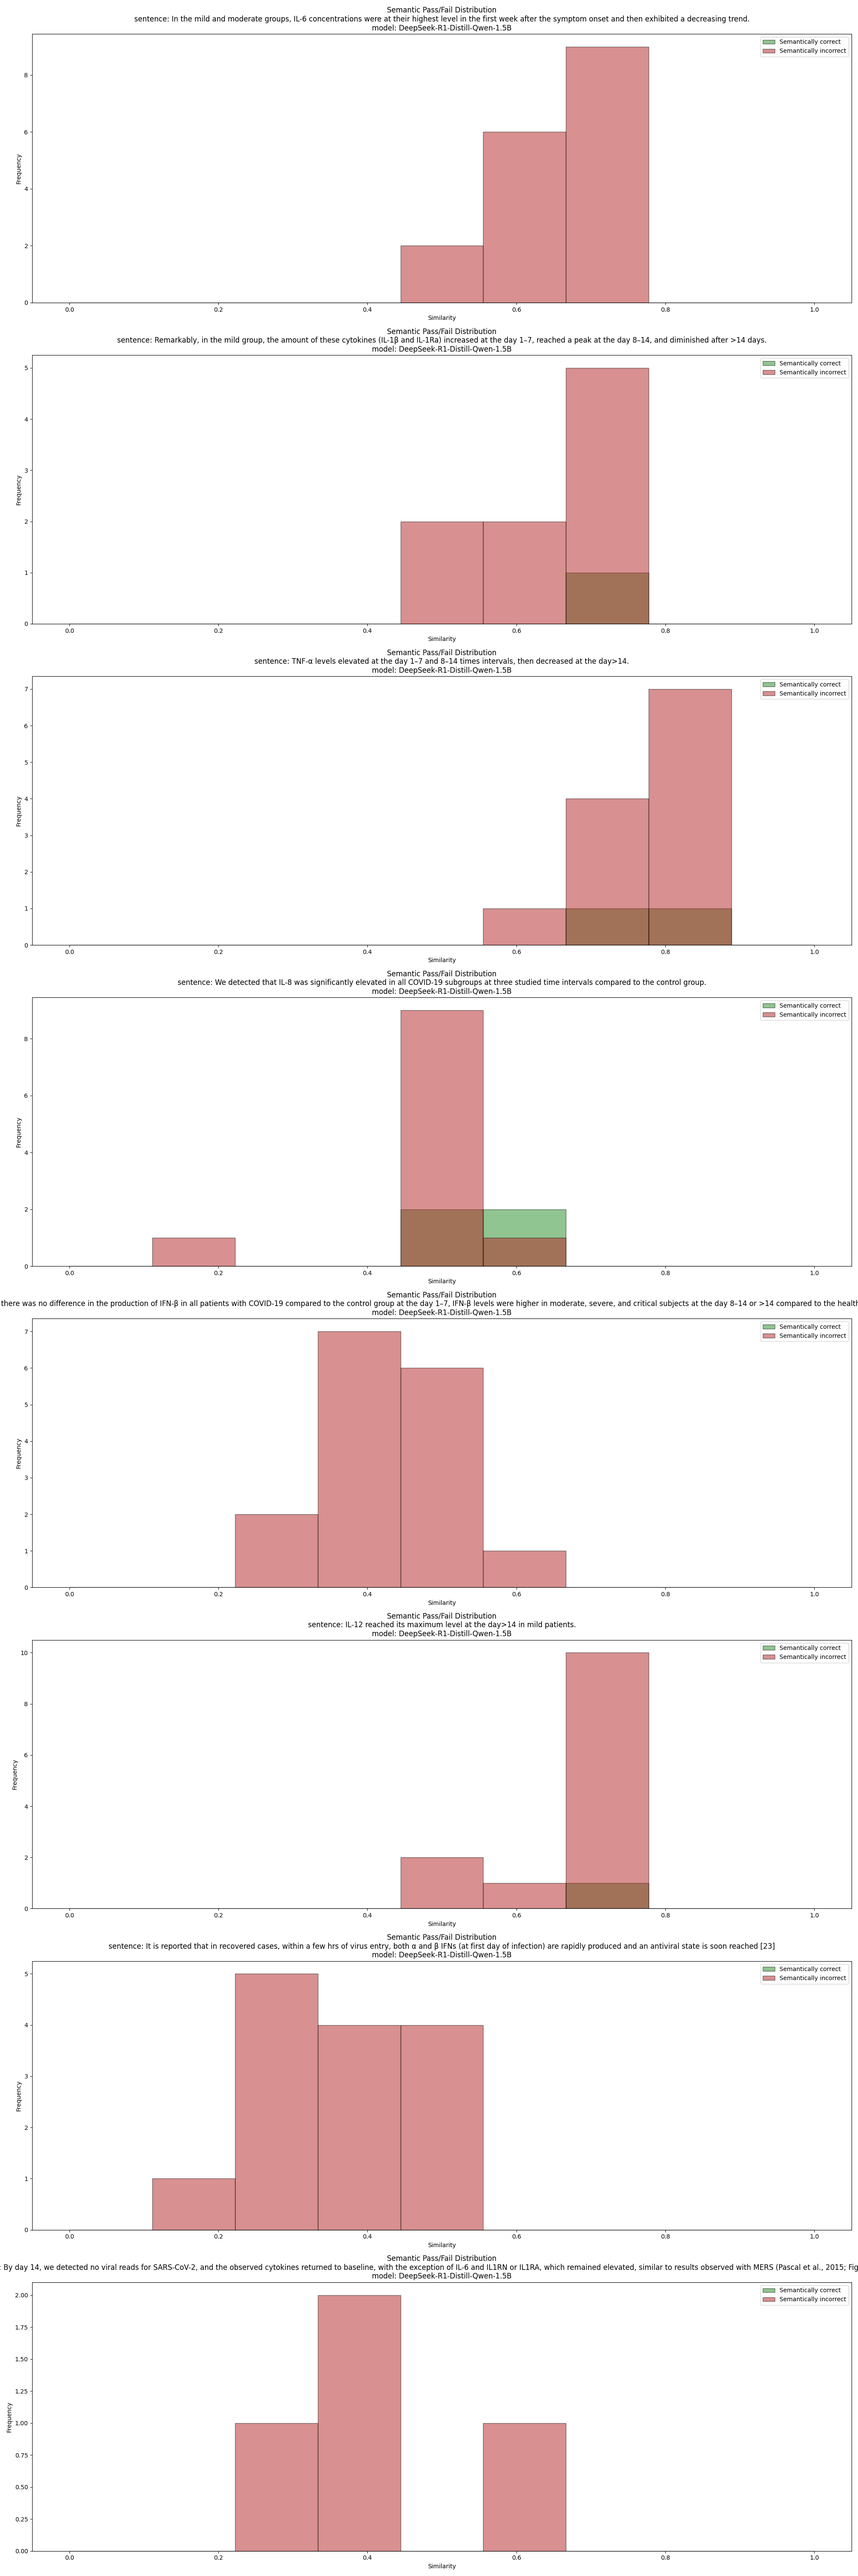
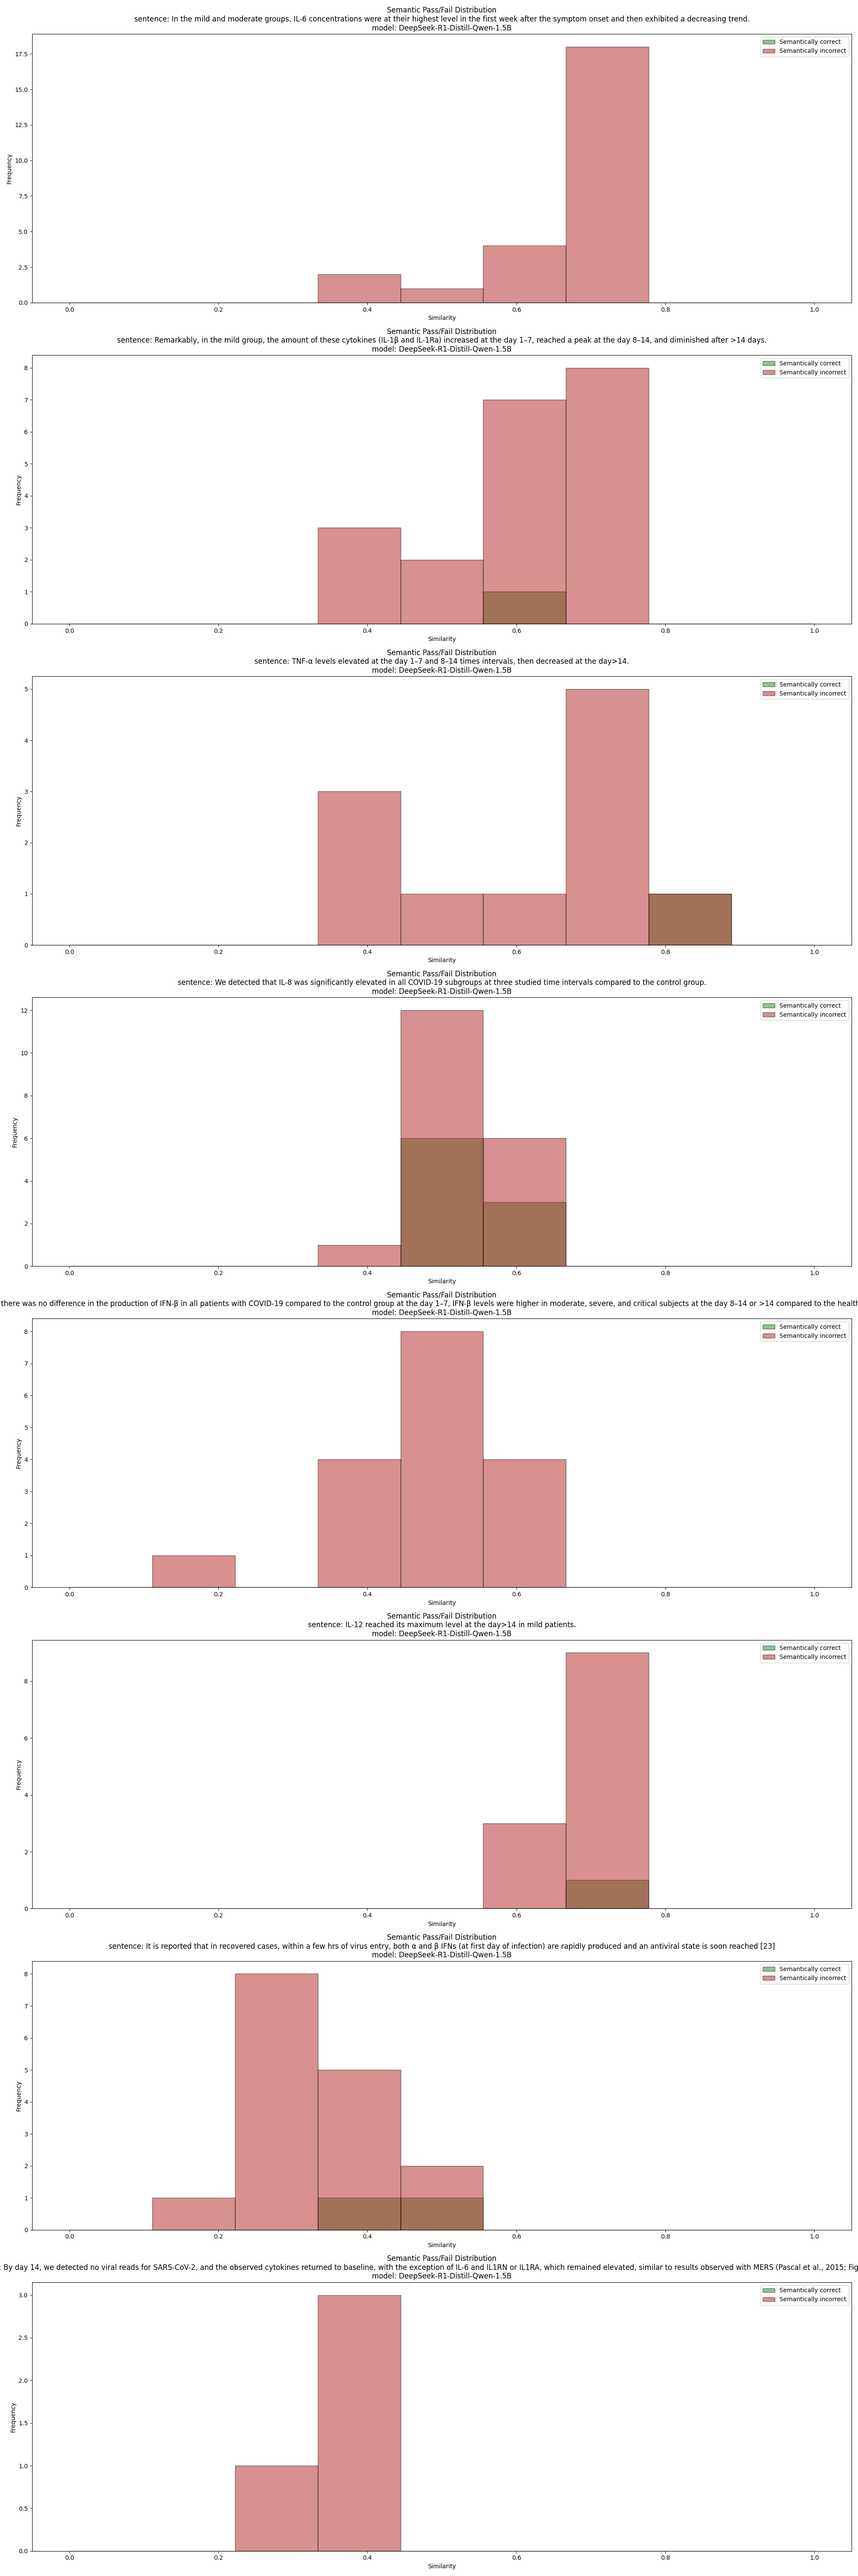
more histograms

diff --git a/ollama_container/heatmap_generators/generate_semantic_distribution_dict.py b/ollama_container/heatmap_generators/generate_semantic_distribution_dict.py
@@ -10,12 +10,12 @@ a = b = c = ''
 
 if sys.argv[1] == 'deepseek':
     a = 'DeepSeek-R1-Distill-Qwen-1.5B'
-    b = 'translations_DeepSeek-R1-Distill-Qwen-1.5B.pkl'
-    c = 'stl_generator_v4_config.json'
+    b = 'translations_rollback_DeepSeek-R1-Distill-Qwen-1.5B.pkl'
+    c = 'stl_generator_rollback_config.json'
 elif sys.argv[1] == 'qwen':
     a = 'Qwen3-1.7B'
-    b = 'translations_Qwen3-1.7B.pkl'
-    c = 'stl_generator_v4_config.json'
+    b = 'translations_rollback_Qwen3-1.7B.pkl'
+    c = 'stl_generator_rollback_config.json'
 
 model_name = a
 
